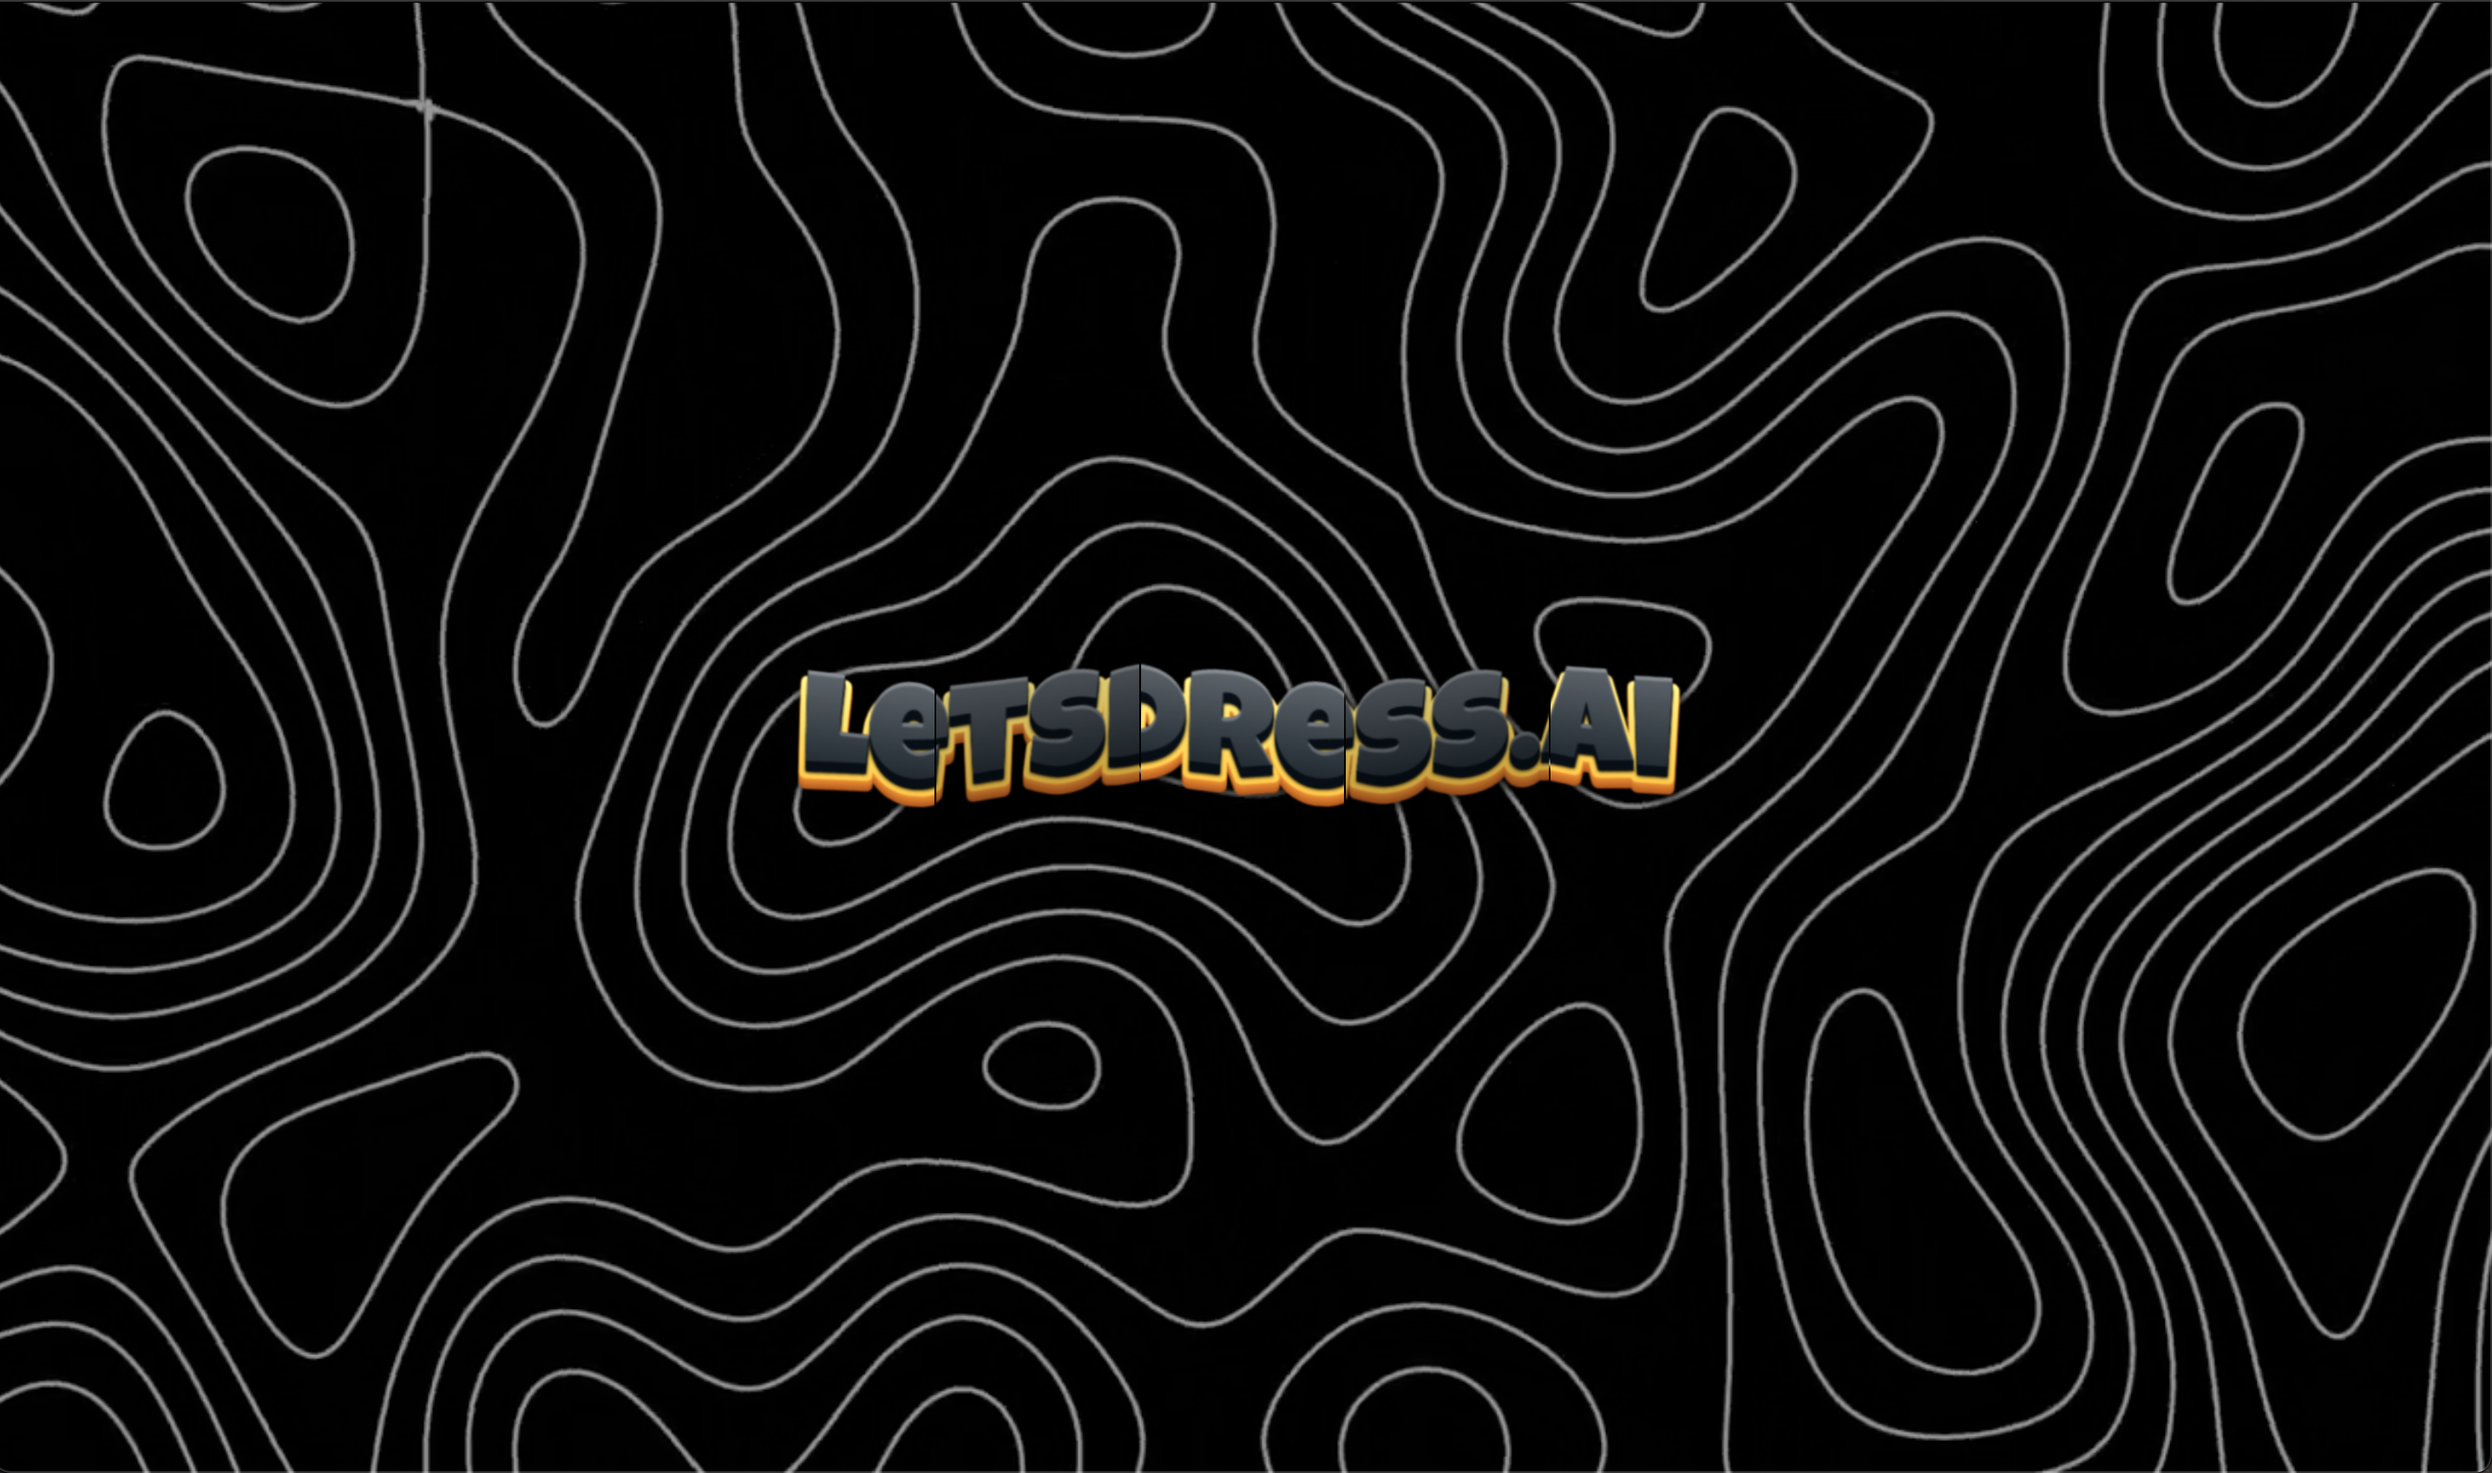
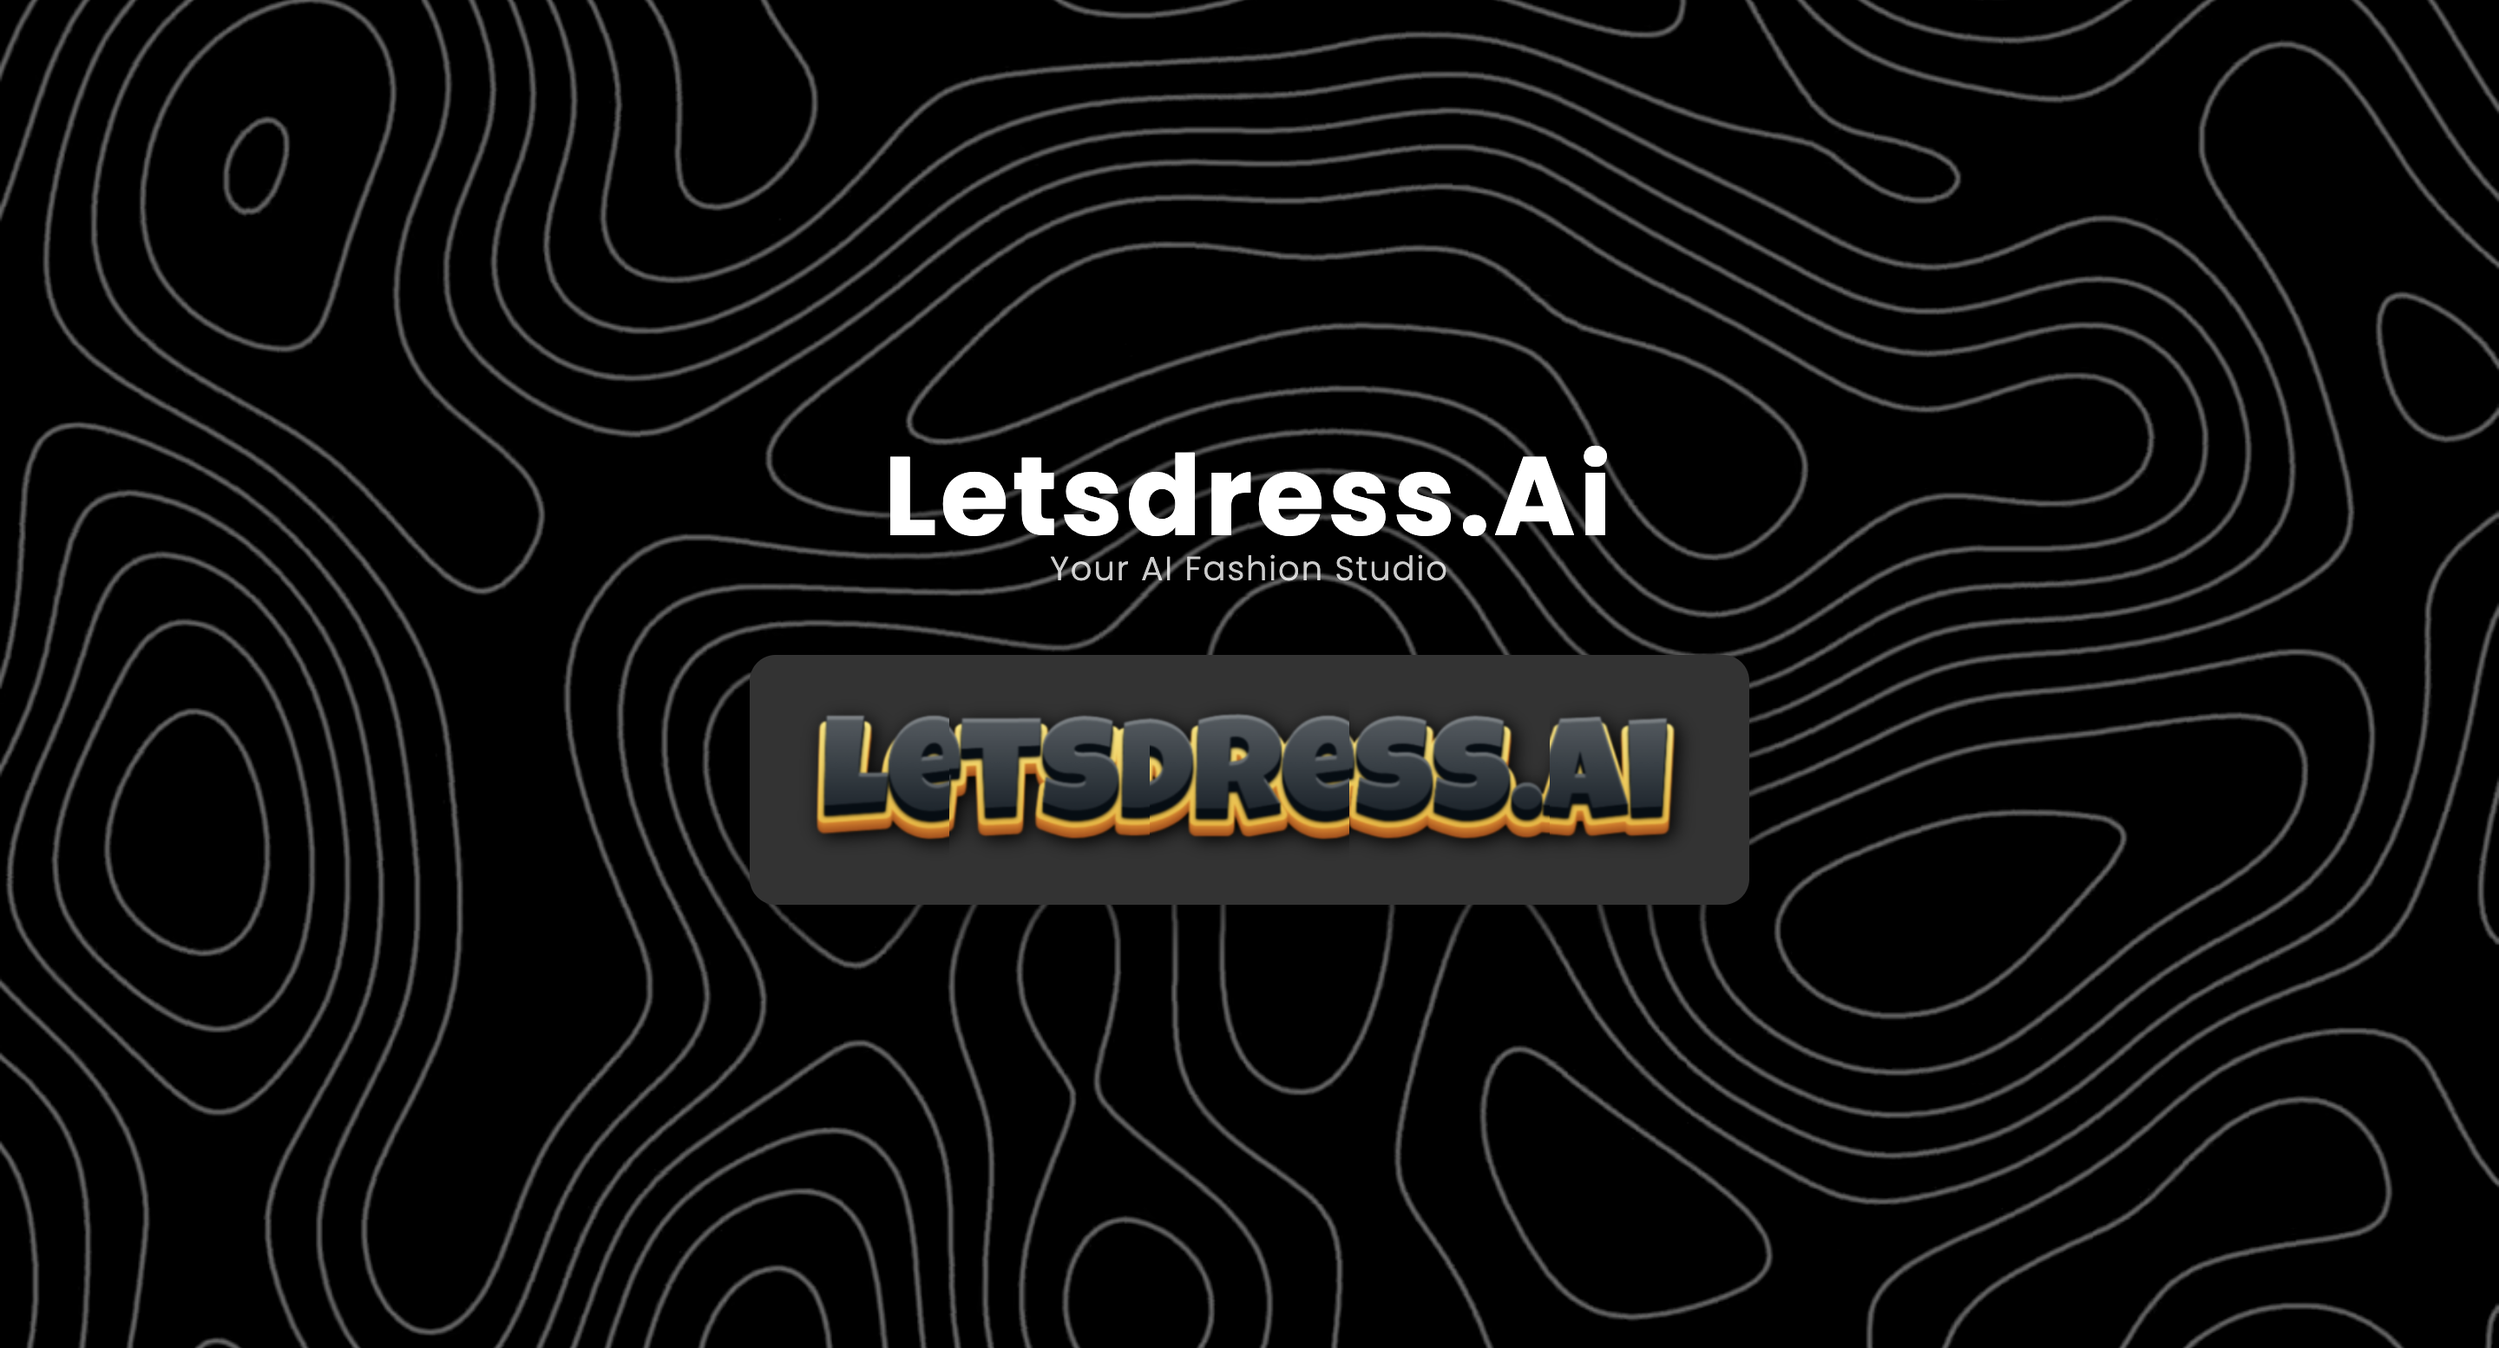
update README.md file

Changed region(s): [[0.0, 0.0, 1.0, 1.0]]

diff --git a/README.md b/README.md
@@ -121,11 +121,12 @@ Visit: `http://localhost:5000`
 
 ---
 
-## 📸 Screenshots
+## 📸 UI Preview
 
-| Startup Page                 | Results                                         |
-| ---------------------------- | ----------------------------------------------- |
-| ![Startup](startup-page.png) | ![Result1](result.png) ![Result2](result-1.png) |
+| Startup Page                        | Results Output                                            |
+| ----------------------------------- | --------------------------------------------------------- |
+| ![Startup](startup-page.png)        | ![Result1](result.png) ![Result2](prompt-based-image.png) |
+| ![Feedback Form](feedback_form.png) |                                                           |
 
 ---
 
